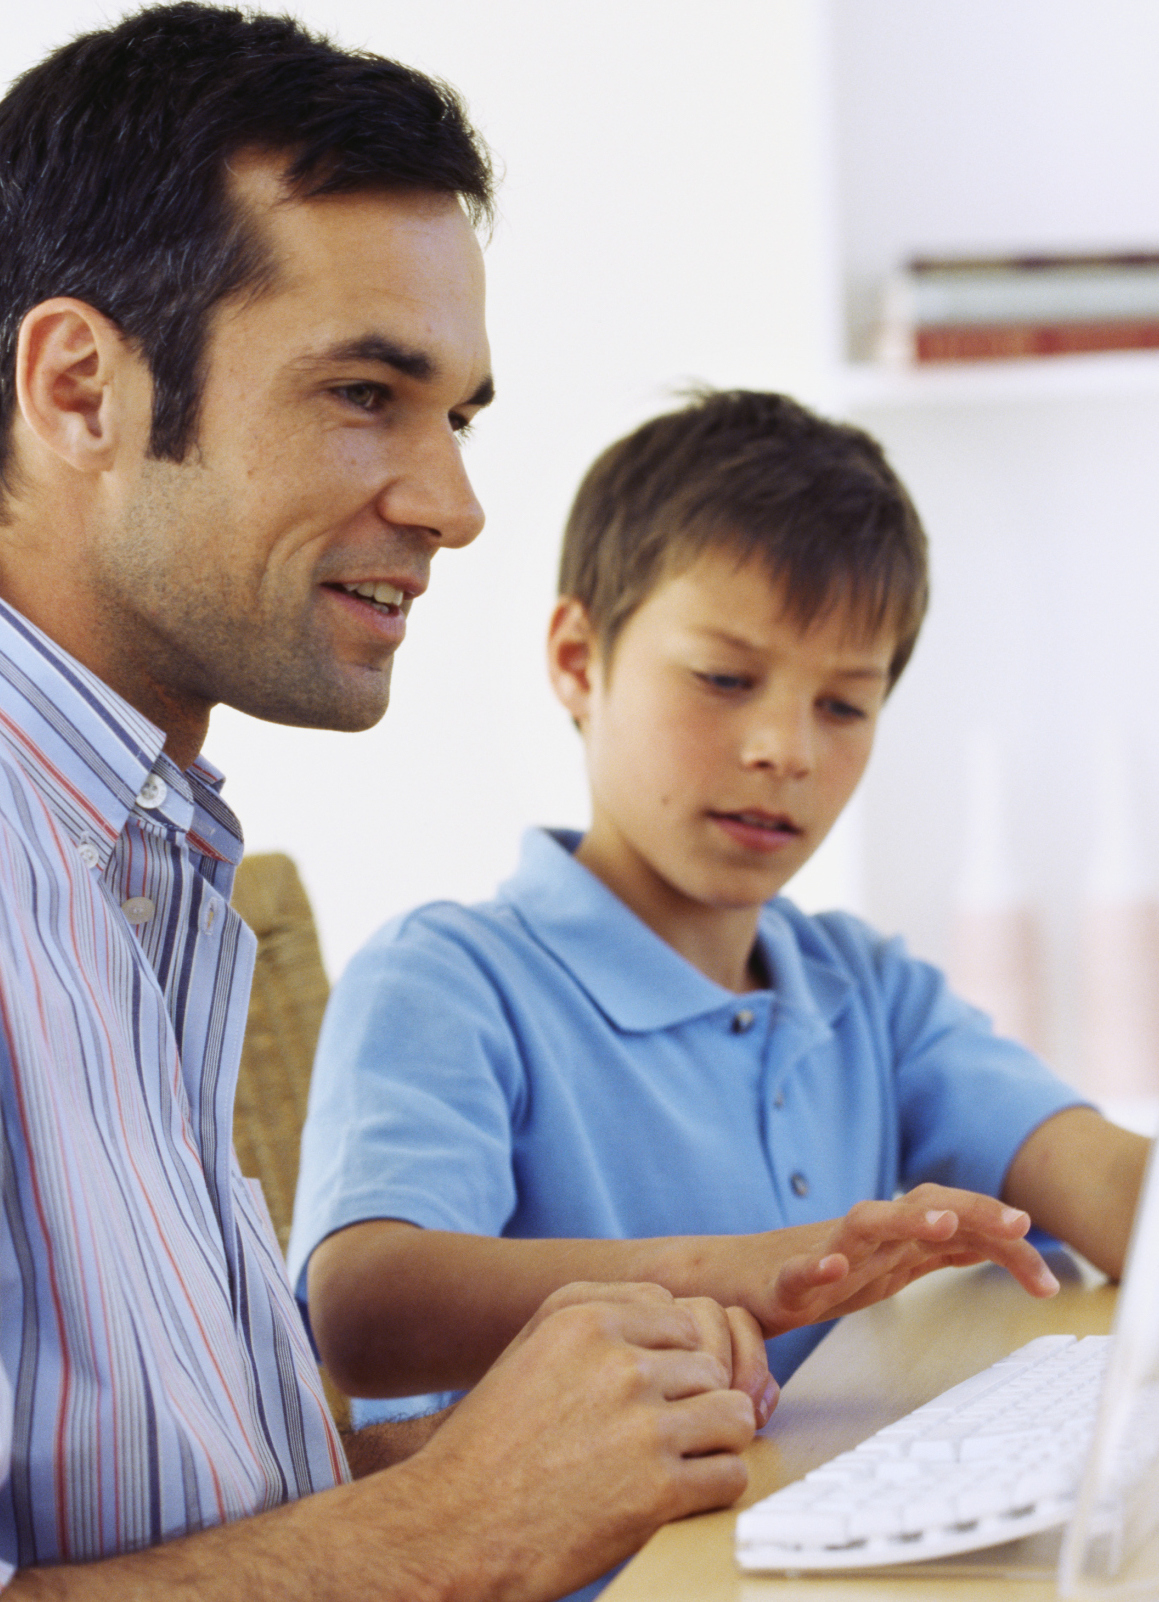
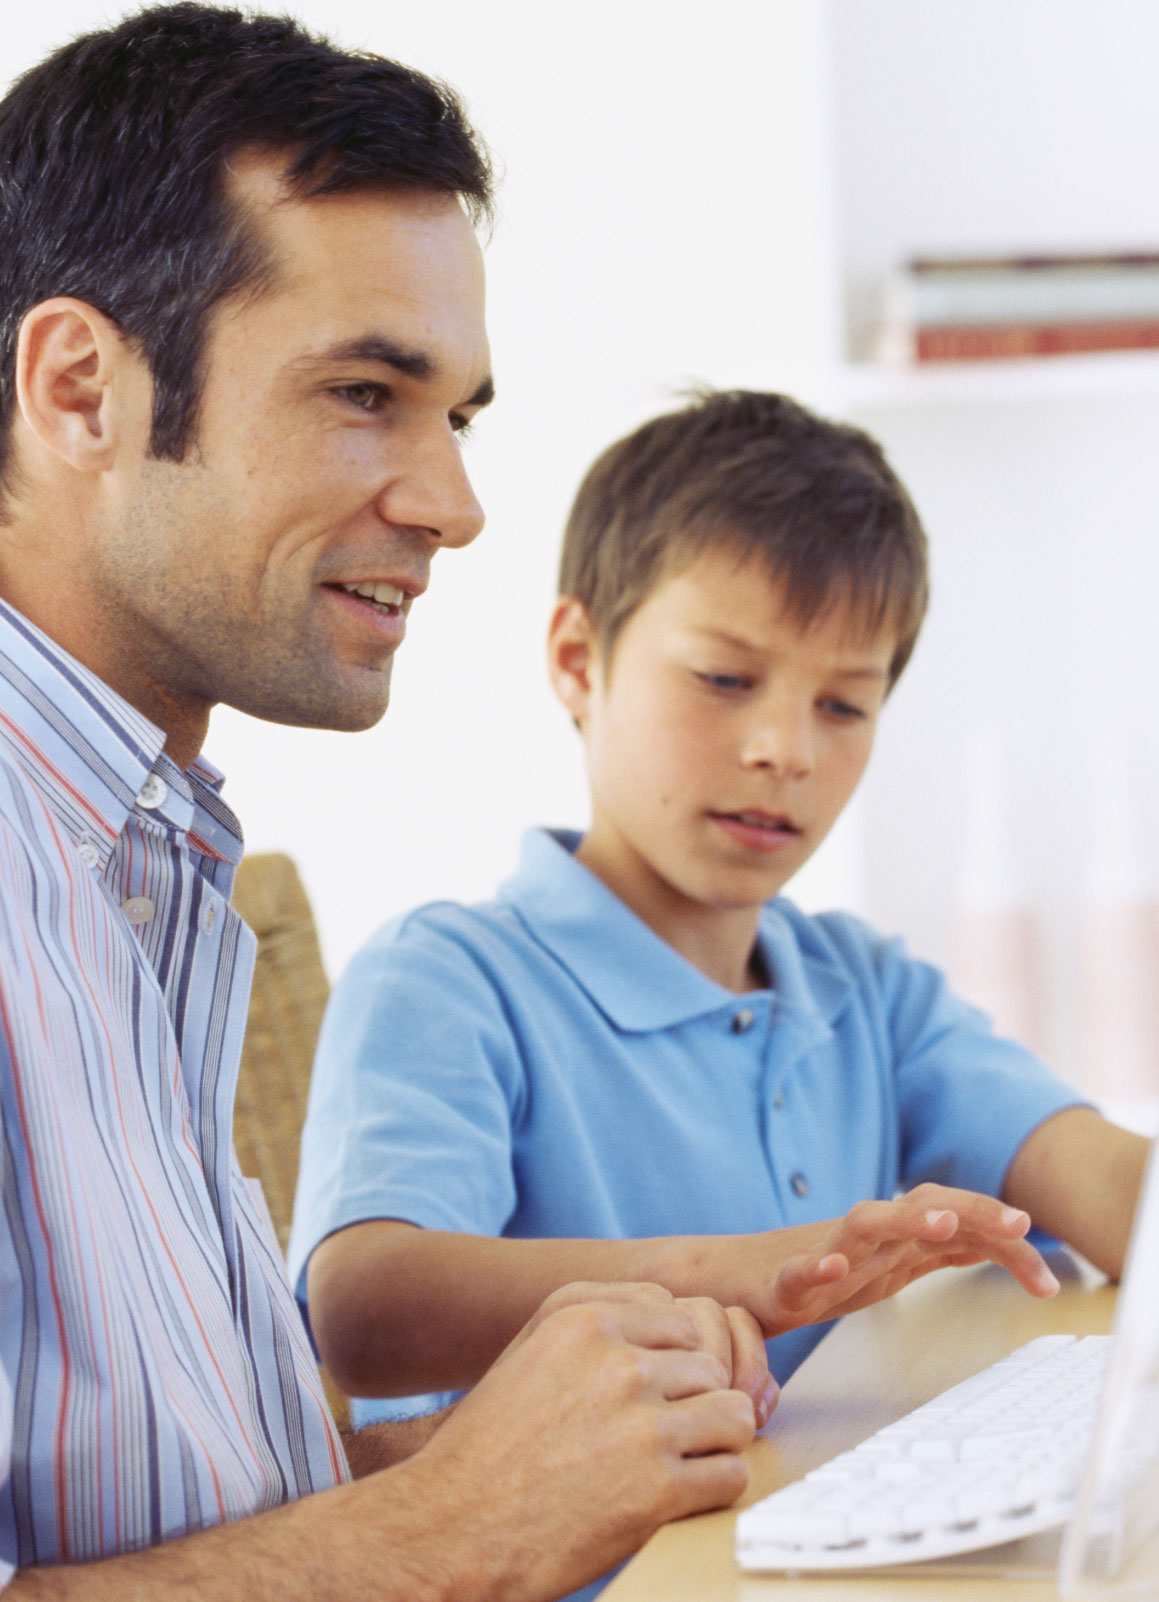
Tweaks and fixes
- Web size images
- Fixed image size for 'in person'
- Removed Pricing link from nav for now
- Fixed Why Us page images

diff --git a/traingle.html b/traingle.html
@@ -1,7 +1,7 @@
 ---
 layout: default
 title: Traingle of Success
-permalink: /triangle/
+permalink: /why-us/
 published: true
 ---
 
@@ -16,18 +16,18 @@ published: true
       <p class="lead">SuprAcademy and its Guides serve as the third vertex of the Triangle and make sure that the it remains intact by providing top quality academic support and engaging both the parent and the student. Our Guides have many years of experience working with students, helping them understand math and science concepts by taking student-specific approach. Our primary goal is to help students become... CONTENT MISSING</p>
     </div>
   </div>
-  <div class="row">
+  <div id="triangle-section" class="row">
     <div id="triangle" class="col-md-4 col-md-offset-2 animation" data-animation="bounceInLeft">
       <div id="triangle-wrapper">
         <div class="row">
           <div id="triangle-upper" class="col-md-12">
-            <a href="javascript:void(0)"><img id="triangle-student" class="img-responsive img-triangle" src="assets/img/triangle-student.png"></a>
+            <a href="javascript:void(0)"><img id="triangle-student" class="img-responsive img-triangle" src="/assets/img/triangle-student.png"></a>
           </div>
         </div>
         <div class="row">
           <div id="triangle-lower" class="col-md-12">
-            <a href="javascript:void(0)"><img id="triangle-guide" class="img-responsive pull-left img-triangle" src="assets/img/triangle-guide.png"></a>
-            <a href="javascript:void(0)"><img id="triangle-parent" class="img-responsive pull-right img-triangle" src="assets/img/triangle-parent.png"></a>
+            <a href="javascript:void(0)"><img id="triangle-guide" class="img-responsive pull-left img-triangle" src="/assets/img/triangle-guide.png"></a>
+            <a href="javascript:void(0)"><img id="triangle-parent" class="img-responsive pull-right img-triangle" src="/assets/img/triangle-parent.png"></a>
           </div>
         </div>
       </div>

diff --git a/css/main.css b/css/main.css
@@ -102,6 +102,7 @@ h2 {
 /* The How */
 #the-how.strip {
 	padding-bottom: 0px;
+	margin-top: 40px;
 }
 #the-how .card{
 	height: 600px;
@@ -109,7 +110,7 @@ h2 {
 	background-repeat: no-repeat;
 }
 #component-in-person {
-	background-image: url("img/student_and_guide.jpeg");
+	background-image: url("img/student_and_guide.jpg");
 }
 .card-overlay {
 	position: absolute;
@@ -214,6 +215,11 @@ address {
 	padding: 20px 15px;
 }
 
+/* Triangle of Success page */
+#triangle-section {
+	margin-bottom: 80px;
+}
+
 /* Footer */
 .navbar {
 	min-height: 40px;
@@ -249,6 +255,13 @@ footer p {
 	}
 	.fa-5x {
 		font-size: 4em;
+	}
+
+	.large-text{
+		font-size: 33px;
+		font-weight: bold;
+		text-align: center;
+		color: #428bca;
 	}
 
 	#banner-overlay-content {
@@ -353,6 +366,9 @@ footer p {
 	#banner-overlay h2 {
 		font-size: 24px;
 	}
+	.large-text{
+		font-size: 44px;
+	}
 	#triangle-wrapper {
 		margin: auto;
 		width: 40%;
@@ -372,6 +388,9 @@ footer p {
 @media only screen and (min-width : 992px) {
 	.strip h1 {
 		margin-top: 20px;
+	}
+	.large-text{
+		font-size: 66px;
 	}
 	#triangle-wrapper {
 		width: 100%;

diff --git a/_includes/header.html b/_includes/header.html
@@ -18,7 +18,8 @@
         <!-- Collect the nav links, forms, and other content for toggling -->
         <div class="collapse navbar-collapse" id="navbar-collapse">
           <ul class="nav navbar-nav">
-            <li><a href="/pricing">Pricing</a></li>
+            <li><a href="/why-us">Why Us</a></li>
+            <!--<li><a href="/pricing">Pricing</a></li>-->
             <li><a href="/faq">FAQ</a></li>
             <li><a href="/contact-us">Contact Us</a></li>
           </ul>
